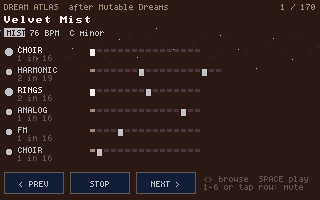
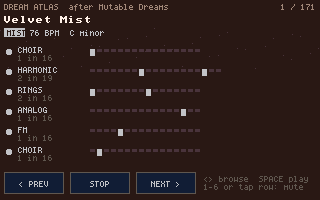
dreamatlas: Organ Boogaloo, soul-jazz funk with ghost-note snare
Bb dorian at 104, Bbm9 - Eb9: a syncopated kick, a backbeat snare with ghost
notes (new '-' in fixed patterns; the snare honours a velocity under .5, which
no factory hit reaches), 16th hats, a fixed funk bass line, brew's organ with
its Leslie stabbing rootless offbeats, a guitar scratching 7 in 12 against the
bar. Factory biomes and Marmalade Jam byte-identical.

diff --git a/tools/carts/dreamatlas.c b/tools/carts/dreamatlas.c
@@ -9,7 +9,7 @@
   "lineage": "A port of the BIOME atlas from Mutable Dreams 1.4 (Kid Bunka / Christoph Link, free firmware for the M-VAVE FM-1, itself built on Mutable Instruments' Plaits/Rings/Elements). The 157 scenes are the upstream's own factory data (MIT), generated into runtime/dreamatlas/biomes.h; the sequencer (Euclid hits/length/rotate per track, seeded rolls, chord journeys, scale masks, the Lo-Fi kit) is ported line by line from app/dsp/dreams.cpp. The fifteen VOICES are NOT ported: each is mapped onto the nearest engine dreamengine already ships, which is the experiment.",
   "homage": "Mutable Dreams (Kid Bunka) / Mutable Instruments",
   "description": {
-    "summary": "157 small generative worlds from Mutable Dreams, plus a few of our own (a house jam, a tabla-and-guiro bazaar, Moon Meadow with tablas, a slow organ-and-upright brew, the Puppetmaker band, a CR-78 bossa, one that evolves by itself, a world-rhythm atlas, a slow modal jazz drone, a Reich-style phase piece and some cool jazz in 5/4): six drifting Euclidean tracks, chord journeys and a Lo-Fi kit, played on dreamengine's own voices.",
+    "summary": "157 small generative worlds from Mutable Dreams, plus a few of our own (a house jam, a tabla-and-guiro bazaar, Moon Meadow with tablas, a slow organ-and-upright brew, the Puppetmaker band, a CR-78 bossa, one that evolves by itself, a world-rhythm atlas, a slow modal jazz drone, a Reich-style phase piece, cool jazz in 5/4 and an organ boogaloo): six drifting Euclidean tracks, chord journeys and a Lo-Fi kit, played on dreamengine's own voices.",
     "detail": "Each BIOME is one scene: six tracks, each a voice (Plaits-style drums, FM, analog, Rings and Elements resonators, a sine choir, a round bass...) with its OWN rhythm, k hits spread over n steps. The lengths differ (16, 19, 13...), so the tracks slide against each other and the loop takes minutes to come round. Some biomes walk a chord progression under it, some swap three tracks for a crunchy 16 kHz Lo-Fi drum kit. Browse in the curated order: neighbours are meant to feel genuinely different. The scenes are the original's factory data; the sounds are this engine's nearest voices, so it is a translation, not a copy.",
     "controls": "LEFT/RIGHT or the arrows: next / previous biome · SPACE or PLAY: start / stop · 1-6: mute a track · tap a track row to mute it"
   },
@@ -192,7 +192,13 @@ _Static_assert(M_CRKICK == 23 && M_NYLON == 26, "the CR-78 Bossa row names its m
 // voicings (Ebm9, Bbm9, alternating a bar each), the upright plays root and fifth, a ride swings
 // "x.xx.xx.x.", the brush lands on 2 and 4, vibes improvise 4 in 15 (a bar and a half), and an Eb
 // drone sits under it two bars at a time. The breakdown takes bass and brush: the vamp, ride, vibes.
-#define DA_OWN 13
+// ORGAN BOOGALOO is soul jazz, the Hammond-trio boogaloo of the late-60s records, funky where Late
+// Modal floats: straight 16ths at 104 in Bb dorian, a Bbm9 - Eb9 vamp (two bars each). The ported kick
+// syncopates, the ported snare plays the backbeat with GHOST notes between ('-' in a pattern), 16th hats,
+// a round bass walks root-fifth-seventh-octave in a fixed funk line, brew's organ (its slow Leslie)
+// stabs rootless voicings on the offbeats, and a guitar chicken-scratches chords 7 in 12, a cross-
+// rhythm drifting against the bar. Breakdown: bass and organ out, the drums and the scratch carry it.
+#define DA_OWN 14
 #define DA_ALL (DA_BIOMES + DA_OWN)
 static const DaBiome DA_OWN_BIOME[DA_OWN] = {
  {"Marmalade Jam",8,125,7,2,125125,0,0,650,200,100,0,120,0,0,0,380,300,{500,260,520,60},{
@@ -286,6 +292,13 @@ static const DaBiome DA_OWN_BIOME[DA_OWN] = {
   /* brush   (scrape)    */ {16,400,1000,500,800,200,0,10,0,900,60,400,0,1,0,1,0,0,850,100,0,0},
   /* vibes   (bell)      */ {20,450,600,700,560,300,4,15,0,850,75,600,0,1,0,1,200,300,850,100,0,0},
   /* drone   (harmonic)  */ {6,25,510,910,28,350,1,20,0,1000,39,500,0,1,600,1,0,800,775,0,1,300}}},
+ {"Organ Boogaloo",3,104,10,3,10410,0,0,650,200,100,0,150,0,0,0,250,200,{500,200,520,40},{
+  /* kick    (Plaits)    */ {0,300,250,380,1000,0,0,16,0,980,33,500,0,1,0,1,0,150,850,100,0,0},
+  /* snare   (Plaits)    */ {1,480,700,280,225,100,0,16,0,980,50,470,0,1,0,1,0,150,850,100,0,0},
+  /* hats    (metal)     */ {2,650,300,110,350,60,16,16,0,900,72,600,0,1,0,1,350,150,850,100,0,0},
+  /* bass    (round)     */ {8,320,400,200,245,0,0,16,0,980,34,500,0,1,0,1,0,500,700,200,1,0},
+  /* organ   (brewOrgan) */ {18,600,100,200,450,200,0,16,0,950,53,420,0,1,0,1,0,250,850,100,0,0},
+  /* scratch (guitar)    */ {19,350,400,30,280,80,7,12,0,850,60,620,0,1,0,1,300,100,850,100,0,0}}},
 };
 // how each of our biomes JAMS (Playtime's drum jam): the order its layers enter, who may rest a
 // phrase, who a breakdown takes out, which track plays the phrase-end fill, which lets go before the one
@@ -297,7 +310,7 @@ typedef struct { int chord_pattern, chord_tracks, build[6], rest[4], break_mask,
                  const char *pat[6];        // pat[i]: a FIXED step pattern instead of the Euclid hits (≤16 steps):
                                             // '.' rest, 'x' a hit, 'X' accented, '5' a hit a fifth up, 'a'..'p' a
                                             // MELODY note that many scale steps over the track's note ('A'..'P'
-                                            // accented); each step still rolls the track's chance, as a phrase does
+                                            // accented), '-' a GHOST (soft); each step still rolls the chance
                  signed char gtr[3];        // the guitar's chord, scale degrees over the root (0,0,0 = 2 4 7)
                  int evolve;                // 1 = no layer arranger: the biome MUTATES itself every 4 bars
                  const char *from[6];       // where a track's rhythm comes from, shown under its name
@@ -347,6 +360,9 @@ static const JamCfg DA_OWN_JAM[DA_OWN] = {
       { "RHODES", "UPRIGHT", "RIDE", "BRUSH", "VIBES", "DRONE" }, { 0, 4 }, 2, 1, {0},
       { "X..x..x.x.", "x.....5.x.", "x.xx.xx.x.", "..x...x...", 0, 0 }, {0}, 0, {0},
       { 2, 4, 6, 8 }, 0, 0, 10, 172 },                               // rootless 3-5-7-9; a bar = 10 eighths
+    { 1, 0x18, {0, 2, 1, 3, 4, 5}, {2, 4, 5, 1}, 1 << 3 | 1 << 4, 1, 2,             // Organ Boogaloo: i9 - IV9, 2 bars each
+      { "KICK", "SNARE", "HATS", "BASS", "ORGAN", "SCRATCH" }, { 0, 3 }, 2, 2, {0},
+      { "X..x...x..x.....", "....X.-.-..-X..-", 0, "a..a..e.h..g.e..", "....x..x....x...", 0 } },
 };
 static const DaBiome *biome_row(int id) { return id < DA_BIOMES ? &DA_BIOME[id] : &DA_OWN_BIOME[id - DA_BIOMES]; }
 static int browse_id(int k) { return k < DA_BIOMES ? DA_BROWSE[k] : k; }   // ours come last, in order
@@ -547,7 +563,8 @@ static void scene(int id) {
                 int deg = c >= 'a' && c <= 'p' ? c - 'a' : c >= 'A' && c <= 'P' ? c - 'A' : -1;
                 int n = c == '.' ? 0 : deg >= 0 ? scale_step(quantize(S.b.tr[i].note, S.b.root, S.b.scale), deg)
                                              : S.b.tr[i].note + (c == '5' ? 7 : 0);
-                S.seq[i][k] = (Step){ (unsigned char)n, (unsigned char)(c == 'X' || (c >= 'A' && c <= 'P') ? 95 : 70), 100, 100 };
+                if (c == '-') n = S.b.tr[i].note;                  // a ghost note: the track's own note, soft
+                S.seq[i][k] = (Step){ (unsigned char)n, (unsigned char)(c == 'X' || (c >= 'A' && c <= 'P') ? 95 : c == '-' ? 35 : 70), 100, 100 };
             }
         }
     }
@@ -990,7 +1007,9 @@ static void fire(int i, int note, float vel, double t, int gate_ms) {
     NoteOpts o = {0};
     o.gain = fmaxf(.05f, fminf(1, vel));
     if (m == M_KICK) o.gain = (3 + 7 * vel) / 10;   // Plaits: accent sets the pulse height 3+7a
-    if (m == M_SNARE) o.gain = snare_gain;          // rendered at accent .8; upstream drums ignore velocity in the mix
+    if (m == M_SNARE) o.gain = snare_gain * (vel < .5f ? vel * 1.4f : 1);   // rendered at accent .8; upstream drums
+                                                    // ignore velocity in the mix, except a pattern's GHOST ('-', vel .35:
+                                                    // no factory hit goes under .55)
     o.cutoff_oct = (breathe * .13f + tide * .2f) * 7.0f;
     if (m == M_ORGAN || m == M_GUITAR || m == M_NYLON) {   // the organ ROOTLESS (3 5 7 9), a guitar a small shape
         static const int organ_deg[4] = { 2, 4, 6, 8 };

diff --git a/docs/design/mutable-dreams.md b/docs/design/mutable-dreams.md
@@ -237,6 +237,14 @@ every track's pattern rescaled to land where it did); its ride now measures 1.00
 "ding, ding-a" with the "a" late, where it was 0.5 / 0.5. Any biome that wants swung eighths needs
 its steps to BE the eighths.
 
+**Organ Boogaloo** is soul jazz, the Hammond-trio boogaloo, funky where Late Modal floats: straight
+16ths at 104 in Bb dorian, a Bbm9 - Eb9 vamp two bars each. The ported kick syncopates, the ported
+snare plays the backbeat with GHOST notes (`'-'` in a fixed pattern, vel .35; the snare now honours a
+velocity under .5, which no factory hit reaches, so the factory biomes are unchanged), measured
+backbeat -19 dBFS against ghosts -26. 16th hats, a round bass in a fixed root-fifth-seventh-octave funk
+line, brew's organ with its Leslie stabbing rootless voicings on the offbeats, and a guitar chicken-
+scratching chords 7 in 12, a cross-rhythm drifting against the bar.
+
 Mipo Band's triangle was a single pitch and got old; a lone BELL now wanders with the jump macro
 like a melody (a bell in a `pair`, Slow Brew's agogo, still keeps its two pitches). Note the cart
 clamps melodic notes to 24..96 (quantize), which had been pinning the triangle at 96.
